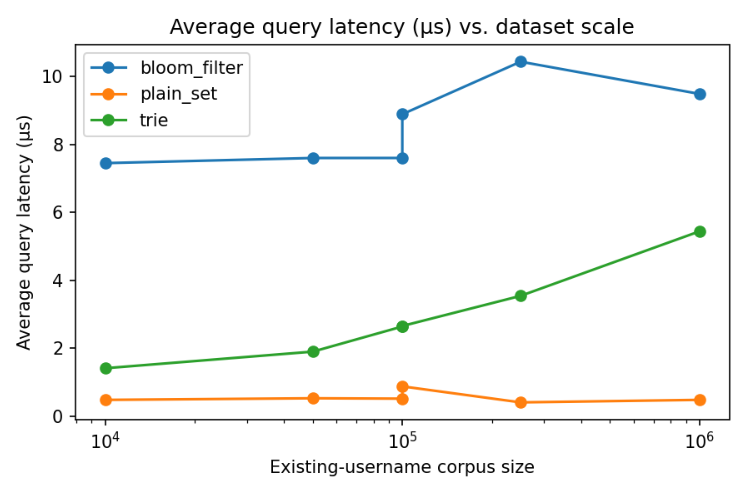
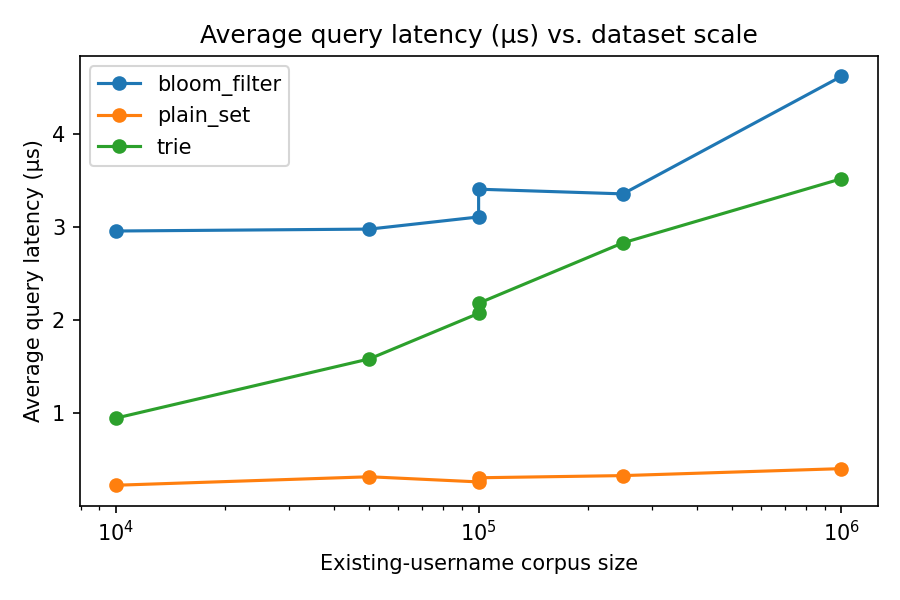
some changes made

diff --git a/Comparative Analysis of Algorithms.tex b/Comparative Analysis of Algorithms.tex
@@ -14,7 +14,8 @@
     T\kern-.1667em\lower.7ex\hbox{E}\kern-.125emX}}
 \begin{document}
 
-\title{Comparative Analysis of Algorithms for Unique Username Generation and Verification at Scale}
+\title{Comparative Analysis of Algorithms for Unique Username Generation
+and Verification at Scale: A Simulation-Based Benchmark Study}
 
 \author{\IEEEauthorblockN{1\textsuperscript{st} Rajesh Bhandari}
 \IEEEauthorblockA{\textit{Department of Computer Engineering} \\
@@ -33,7 +34,22 @@ nce080bct048@nce.edu.np}
 
 \begin{abstract}
 With growing user numbers on platforms the management of unique and user friendly usernames has become a challenge. Usernames systems need to be able to generate meaningful usernames, while also being able to check username availability rapidly and effectively handle many concurrent requests.
-A variety of algorithms have been proposed in literature to address these issues, however, these algorithms are mostly investigated individually and under specific circumstances and a single ``best'' username system algorithm to address a high-volume of users is difficult to pinpoint. In this study, six usernames generation techniques - Random Suffix Generation, Trie-based Suggestion, Snowflake-like Suffix Generation, Agentic Username Generation, Bloom Filter and Consistent Hashing are evaluated using varying username records sizes from 10,000 to 1,000,000. Tests were performed on a range of metrics including latency, memory usage, uniqueness, generation success rate, usability and distribution cost when generating and distributing username accounts across many distributed servers. All six usernames generation techniques were run on a similar environment so that each algorithm could be fairly tested against one another. This study sets out to compare each method, to investigate the pros and cons of each; while also investigating how each usernames generation technique performs under growing user numbers and which to use singly or in combination with other algorithms for managing large-scale username generation and verification systems. Username systems and username generation algorithms play a vital role in modern platforms.
+A variety of algorithms have been proposed in literature to address these issues, however, these algorithms are mostly investigated individually and under specific circumstances and a single ``best'' username system algorithm to address a high-volume of users is difficult to pinpoint. In this study, six usernames generation techniques - Random Suffix Generation, Trie-based Suggestion, Snowflake-like Suffix Generation, Agentic Username Generation, Bloom Filter and Consistent Hashing are evaluated using varying username records sizes from 10,000 to 1,000,000. Tests were performed on a range of metrics including latency, memory usage, uniqueness, usability and distribution cost when generating and distributing username accounts across many distributed servers. Important observations include: the Bloom filter takes up 41$\times$ less memory than a basic hash set,
+as well as 923$\times$ less than the non-compressed trie for
+1,000,000 usernames at the expense of a managed false-positive rate
+at around its target of 1\%; consistent hashing re-maps only 11.4--11.7\%
+of keys in response to adding a new node, compared to 88.4--88.8\%
+for naive modulo hashing; and the latency of suggestion by tries scales
+about 178$\times$ upon a 100$\times$ increase in corpus size because of
+an unoptimized prefix counting function. The key drawback of this study
+is that the agentic approach is an implementation of a deterministic
+rule-based simulator, rather than a real-life large language model, and
+thus its outcomes should be treated as a conservative estimate, rather
+than actual measurements of the LLM-based generation process.
+This paper's novelty does not lie in any individual algorithms but
+rather in a common, task-aware testing framework and a reproducible benchmark that allows practitioners to choose proper combinations of
+generation and verification methods according to the scale of their deployment,
+not just according to the performance of each algorithm separately.
 \end{abstract}
 
 \begin{IEEEkeywords}
@@ -96,12 +112,81 @@ Though earlier work has been done on these methods, no existing work compares th
 \subsection{Theoretical Framework and Justification}
 This paper is based on the observation made in the literature that the methods of generating and verifying usernames have been analyzed separately. Furthermore, these techniques have often been evaluated only in terms of other goals than those that are relevant to the problem of username registration. For example, Bloom filters and the technique of consistent hashing have been designed and evaluated for general-purpose caching and set representation \cite{b1,b2,b3}. Similarly, the stateless Snowflake approach has been developed to generate unique identifiers in distributed environments such as container orchestration systems \cite{b4}. The Trie data structure has been developed for general information storage and retrieval purposes \cite{b5}, while the agent-based recommendation framework has been tested on gender recognition capabilities rather than on system-level deployment costs \cite{b6}. Therefore, there is no common conceptual framework, which can be used for the comparison between the techniques, as they have been developed in various spheres of the computer science with a variety of criteria for their effectiveness.
 
-To ensure a fair comparison, this paper relies upon a single multi-dimensional evaluation framework. The framework is based strictly on the necessities of username registration systems discovered during the comprehensive review. The evaluated criteria include query latency, memory consumption, collison rate and how easy it is for humans to remember and read generated usernames. Finally, it evaluates whether a technique is suitable for deployemnt across multiple sites. The six techniques under consideration are random suffix generation, Trie-based suggestion, Snowflake-like suffix generation, agentic username generation, Bloom filter pre-filtering, and consistent hashing. Each technique is treated as a black-box module within a username registration system. It can perform one of two functions. The first is the \textit{generation} function, which proposes a candidate username. The second is the \textit{verification/distribution} function, which determines whether the proposed username is available or not. In distributed environments, this function also identifies the node responsible for handling the verification request. The strength of this approach is based on that, in reality, username registration systems are not dependent on a single approach. Usually, they use a username generation method coupled with a verification method. Because of this, assessing both kinds under a common set of metrics makes for a more accurate comparison. Such a comparison allows one to detect not only the fastest method at a time but also the best combinations of methods for different deployment scenarios.
+To ensure a fair comparison, this paper relies upon a single multi-dimensional evaluation framework. The framework is based strictly on the necessities of username registration systems discovered during the comprehensive review. The evaluated criteria include query latency, memory consumption, collision rate and how easy it is for humans to remember and read generated usernames.
+They were chosen since each of them relates to some cost incurred by a real-world registration system. Both mean and 95th percentile latencies were chosen since they define how responsive the registration process will feel to
+a user; mean latency is responsible for normal-case costs, while
+p95 latency highlights the nearly worst-case performance that
+can be missed by mean latency due to a possibility of one
+slow outlier to impact a user experience when registration
+peaks. Memory usage was chosen as the major cost of
+infrastructure needed for verification structures, especially
+for those that need to be stored in memory in several
+servers. Success rate was chosen since the generation
+process that fails to create a suitable name often enough is
+not practical no matter how efficient in other ways it is. Collision rate was selected because it is the most direct
+measurement of how effectively an algorithm avoids the actual
+problem this paper seeks to address, that of name collision. It is defined differently for verification
+(a false positive) and for generation (a candidate name that is found
+to already exist), as the two different tests examine different
+fundamental operations. Readability was selected because an
+algorithmically unique, but difficult to read or memorize, username, such
+as a random alphanumeric string, is imposing a cost on the user despite
+perfectly satisfying the uniqueness requirement; there is no other
+algorithmic measurement that addresses this cost. Distributed deployment
+was selected because username systems are increasingly distributed across
+multiple machines or datacenters, and a measure of a technique's
+distributed-deployment efficiency, specifically how much state needs to be
+recreated when scaled out to a cluster, does not emerge at all from a
+single-machine test.
+
+Finally, it evaluates whether a technique is suitable for deployment across multiple sites. The six techniques under consideration are random suffix generation, Trie-based suggestion, Snowflake-like suffix generation, agentic username generation, Bloom filter pre-filtering, and consistent hashing. Each technique is treated as a black-box module within a username registration system. It can perform one of two functions. The first is the \textit{generation} function, which proposes a candidate username. The second is the \textit{verification/distribution} function, which determines whether the proposed username is available or not. 
+
+Since these six techniques have different functions, an evaluation of the
+techniques based on one undifferentiated scale will be deceptive;
+Table~\ref{tab:taskmatrix} highlights which function each of these
+techniques serves and the evaluation criteria relevant to its
+functioning. A technique can be judged only on those criteria which are
+relevant to the output produced by the technique; criteria which are
+not relevant for the function performed by a particular technique will
+be deemed as non-applicable.
+
+\begin{table}[h]
+\centering
+\caption{Task-specific evaluation matrix}
+\label{tab:taskmatrix}
+\resizebox{\columnwidth}{!}{%
+\begin{tabular}{lccccc}
+\toprule
+Method & Role & Latency & Memory & Collision & Readability \\
+\midrule
+Random suffix     & Generation & \checkmark & n/a & \checkmark & \checkmark \\
+Snowflake-style   & Generation & \checkmark & n/a & \checkmark & \checkmark \\
+Trie suggestion   & Generation & \checkmark & \checkmark & \checkmark & \checkmark \\
+Agentic (rule-based) & Generation & \checkmark & n/a & n/a & \checkmark \\
+Bloom filter      & Verification & \checkmark & \checkmark & \checkmark (FP rate) & n/a \\
+Consistent hashing & Distribution & \checkmark & n/a & n/a & n/a \\
+\bottomrule
+\end{tabular}%
+}
+\end{table}
+
+This table makes clear that the six techniques are not all interchangeable:
+the bloom filter and consistent hashing are used to perform the
+verification/distribution function and can be combined naturally in
+an industrial pipeline process, whereas the four methods for
+generation of names are competing alternatives for the distinct job
+of proposing an eligible name. This comparison in this paper is
+therefore not “which one technique is better” but rather
+“which technique is better for its function, and which pair of
+functions is consistent,” consistent with the workload-dependent
+recommendation made in the Discussion.
+
+In distributed environments, this function also identifies the node responsible for handling the verification request. The strength of this approach is based on that, in reality, username registration systems are not dependent on a single approach. Usually, they use a username generation method coupled with a verification method. Because of this, assessing both kinds under a common set of metrics makes for a more accurate comparison. Such a comparison allows one to detect not only the fastest method at a time but also the best combinations of methods for different deployment scenarios.
 
 \subsection{Research Design}
 This paper presents simulation-based experiments to compare different username generation, verification, and distribution techniques. Unlike survey or observation, the focus is on measuring the performance of algorithms rather than analyzing human behavior. In order to make comparisons unbiased, all six techniques are implemented in the same experimental environment. The data structures Bloom filter, Trie, and consistent hash ring were implemented from scratch. A simple modulo-hashing approach was also developed for comparison.
 
-The primary variable considered in this study is the \textit{corpus scale}, defined as the number of existing usernames in the system. Three real-world datasets of different sizes (10,000, 100,000, and 1,000,000 usernames) were used throughout the experiments. To investigate how performance changes as the dataset grows, the 1,000,000 username dataset was also splitted into smaller subsets of 50,000, 100,000, and 250,000 usernames. Six corpus scales were used for evaluation of verification techniques. The original 10,000 and 100,000 username datasets were used in the experiments. In addition, subsets of 50,000, 100,000, and 250,000 usernames were extracted from the 1,000,000-username dataset. The full 1,000,000-username dataset was also included. This allowed the effect of increasing corpus size on verification performance to be studied. Distributed-deployment methods were examined using corpus scales of 5,000, 20,000, 50,000, and 100,000 keys. This was done to analyze how the remapping overhead varied with the number of keys being routed. Username generation methods were tested with 10,000, 100,000 and 1,000,000 username datasets. 
+The primary variable considered in this study is the \textit{corpus scale}, defined as the number of existing usernames in the system. Three real-world datasets of different sizes (10,000, 100,000, and 1,000,000 usernames) were used throughout the experiments. To investigate how performance changes as the dataset grows, the 1,000,000 username dataset was also split into smaller subsets of 50,000, 100,000, and 250,000 usernames. Six corpus scales were used for evaluation of verification techniques. The original 10,000 and 100,000 username datasets were used in the experiments. In addition, subsets of 50,000, 100,000, and 250,000 usernames were extracted from the 1,000,000-username dataset. The full 1,000,000-username dataset was also included. This allowed the effect of increasing corpus size on verification performance to be studied. Distributed-deployment methods were examined using corpus scales of 5,000, 20,000, 50,000, and 100,000 keys. This was done to analyze how the remapping overhead varied with the number of keys being routed. Username generation methods were tested with 10,000, 100,000 and 1,000,000 username datasets. 
 
 For the verification methods, several different measures were taken in each case of a different corpus sizes. In particular, there was the measure of the construction time, which is how much time it took to create the data structure, the amount of maximum memory usage when creating the structure, and the username lookup time. Username lookup latency was measured using both the average response time and the 95th-percentile response time for the candidate request set. For the Bloom filter, false-positive and false-negative rates were computed and compared against the actual dataset.
 
@@ -192,7 +277,7 @@ Duplicates        & 0        & 0         & 0 \\
 \end{tabular}
 \end{table}
 
-The two datasets of 10,000 and 100,000 usernames were used diretly in the experiment. While, the 1,000,000 username dataset was used in two ways: in its entirety and as a source of sub-datasets of 50,000, 100,000, and 250,000 usernames. The latter was done by extracting the first usernames from the large dataset. The use of both the actual datasets and the sub-datasets from the largest dataset enabled the verification performance to be tested against increasing numbers of usernames.
+The two datasets of 10,000 and 100,000 usernames were used directly in the experiment. While, the 1,000,000 username dataset was used in two ways: in its entirety and as a source of sub-datasets of 50,000, 100,000, and 250,000 usernames. The latter was done by extracting the first usernames from the large dataset. The use of both the actual datasets and the sub-datasets from the largest dataset enabled the verification performance to be tested against increasing numbers of usernames.
 
 A stream of 20,000 candidate requests was created using the 1,000,000-usernames dataset to be used for measuring latency and false positives for the verification experiment. Twenty percent of these requests consist of usernames that are direct samples from the dataset, representing the case where a user requests a username that is already taken. The other eighty percent of these requests consist of base names extracted from other entries in the dataset by removing trailing digits and separator-separated suffixes (such as underscores and periods), representing the name a user would have typed without an extra suffix. For the generation experiment, base names were extracted in the same manner from a random sample of each of the three datasets separately, so that generation performance on each scale can be measured relative to names taken from that dataset.
 
@@ -240,7 +325,11 @@ by the types of transformations used by Bijary et al. in their creator
 agent \cite{b6}. 
 
 This was done since integrating a live LLM call may introduce variability
-and non-deterministic outputs. Thus, the results achieved in this case with the agentic style approach need to be considered as an estimate of what such a language model might be able to achieve. Indeed, an actual language model could provide a variety of more appropriate username proposals than any preset rules, yet this assumption was not tested in the current study. Indeed, an actual language model could provide a variety of more appropriate username proposals than any preset rules.
+and non-deterministic outputs. Thus, the results achieved in this case with the agentic style approach need to be considered as an estimate of what such a language model might be able to achieve. Certainly, a real language model could offer a number of more appropriate
+suggestions for usernames than any fixed set of rules, but this was not
+verified in this current research. Thus, any statement made in this paper regarding the readability, latency or other performance metrics of the
+``agentic'' approach must not be interpreted as applying specifically to large language models, since any such findings are only specific to this
+study’s deterministic and rule-based implementation of one piece of Nominalist methodology \cite{b6}.
 
 After loading the datasets, the benchmarking framework ran each method and automatically measured the relevant data. Various performance metrics like construction time, memory usage, query latency, collision ratio, remapping time, success ratio, and readability were captured in the experiments automatically. The query latency was measured using Python’s high-resolution performance counter, whereas memory usage was calculated using Python’s built-in memory trace utility.
 
@@ -258,7 +347,7 @@ Figure~\ref{fig:memory} shows the maximum memory usage for the plain hash set, B
 \label{fig:memory}
 \end{figure}
 
-The average query latency for each structure is depicted in Figure~\ref{fig:latency}. The plain set gave the lowest query latencies (0.208--0.521$\mu$s) among all scales tested, while the trie structure gave an intermediate level (1.423--4.499 $\mu$s), and the Bloom filter had the largest (3.901--9.386 $\mu$s). The reason behind this is that the queries to the Bloom filter involve the calculation of multiple hash values, not just the dictionary lookups. This is the opposite order to the one in the memory requirements: the structure taking the least amount of memory space has the highest query overhead.
+The average query latency for each structure is depicted in Figure~\ref{fig:latency}. The plain set gave the lowest query latencies (0.23--0.41$\mu$s) among all scales tested, while the trie structure gave an intermediate level (0.95--3.52 $\mu$s), and the Bloom filter had the largest (2.96--4.62 $\mu$s). The reason behind this is that the queries to the Bloom filter involve the calculation of multiple hash values, not just the dictionary lookups. This is the opposite order to the one in the memory requirements: the structure taking the least amount of memory space has the highest query overhead.
 \begin{figure}[h]
 \centering
 \includegraphics[width=\columnwidth]{figures/latency_vs_scale.png}
@@ -436,9 +525,11 @@ unless further optimization like prefix count compression or limitation
 is considered. In terms of readability, the rule-based approximation of
 the agentic method yielded the best score at each scale level while still being the faster method than trie suggestion at maximum scale considered as shown in Figure \ref{fig:gen_readability}.
 
-When all of these results are combined, it becomes evident that a workload-dependent approach should be recommended, rather than one optimal technique. In other words, a production registration system that seeks to ensure efficient performance with low memory usage. With regard to verification and routing, the findings suggest that Bloom filters and consistent hashing are the best options in terms of memory efficiency,scalability, and lookup performance. Username generation can involve the use of a fast and collision-resistant algorithm like the Snowflake algorithm suffix, along with a readable algorithm for enhanced quality of the username generated. In terms of the readability feature, it is possible to choose from two
-options, which include the rule-based method considered in this research paper or the LLM-based system. Trie-based proposals should be used only when
-working with small corpora due to increased memory usage.
+When all of these results are combined, it becomes evident that a workload-dependent approach should be recommended, rather than one optimal technique. In other words, a production registration system that seeks to ensure efficient performance with low memory usage. With regard to verification and routing, the findings suggest that Bloom filters and consistent hashing are the best options in terms of memory efficiency,scalability, and lookup performance. Username generation can involve the use of a fast and collision-resistant algorithm like the Snowflake algorithm suffix, along with a readable algorithm for enhanced quality of the username generated. Regarding the readability aspect, the findings of this research
+directly confirm the validity of the rule-based approach being considered;
+whether an actual LLM-based one would yield even better results
+remains an open question based on the Nominalist design \cite{b6},
+but it cannot be confirmed due to the lack of actual LLM use. Trie-based proposals should be used only when working with small corpora due to increased memory usage.
 
 \begin{thebibliography}{00}
 \bibitem{b1} L. Luo, D. Guo, R. T. B. Ma, O. Rottenstreich, and X. Luo, ``Optimizing Bloom Filter: Challenges, Solutions, and Comparisons,'' \emph{arXiv preprint arXiv:1804.04777}, 2018.
